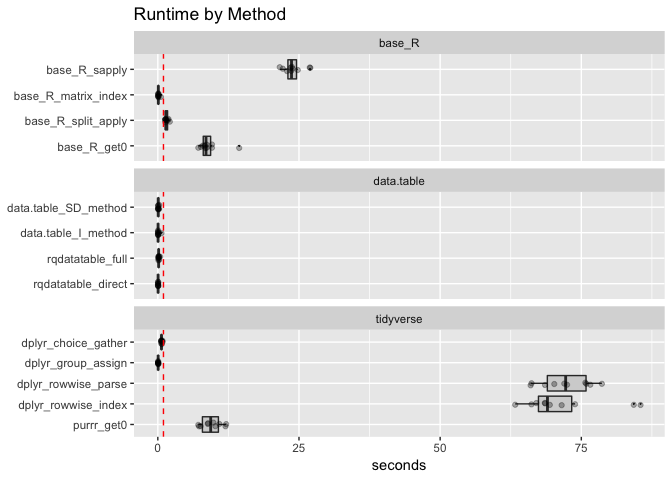
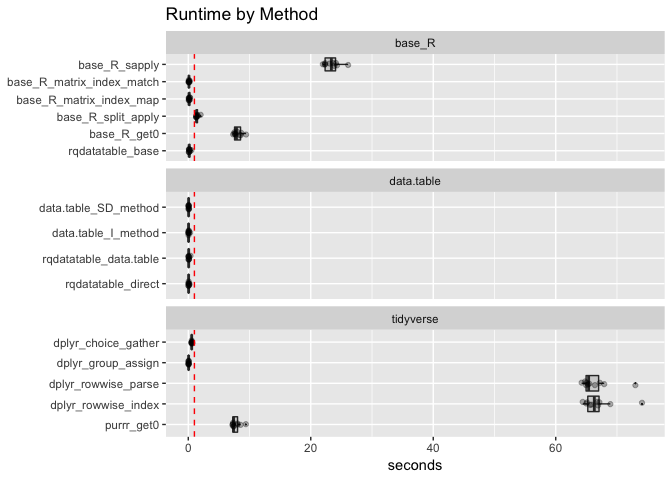
newer run with more variations

diff --git a/TimeColumnLookups/timings.md b/TimeColumnLookups/timings.md
@@ -84,7 +84,7 @@ base_R_sapply <- function(df) {
   df
 }
 
-base_R_matrix_index <- function(df) {
+base_R_matrix_index_match <- function(df) {
   # https://community.rstudio.com/t/extracting-value-from-a-data-frame-where-column-name-to-extract-from-is-dynamically-determined-by-values-in-another-column/14585
   dtmp <- df[, 
              intersect(df$choice, colnames(df)), 
@@ -92,6 +92,19 @@ base_R_matrix_index <- function(df) {
   df$derived <- dtmp[
     cbind(seq_len(nrow(df)),
           match(df$choice, colnames(dtmp)))]
+  df
+}
+
+base_R_matrix_index_map <- function(df) {
+  # https://community.rstudio.com/t/extracting-value-from-a-data-frame-where-column-name-to-extract-from-is-dynamically-determined-by-values-in-another-column/14585
+  dtmp <- df[, 
+             intersect(df$choice, colnames(df)), 
+             drop = FALSE]
+  cmap <- seq_len(length(colnames(df)))
+  names(cmap) <- colnames(df)
+  df$derived <- dtmp[
+    cbind(seq_len(nrow(df)),
+          cmap[df$choice])]
   df
 }
 
@@ -180,7 +193,8 @@ rqdatatable_direct <- make_dt_lookup_by_column("choice", "derived")
 ``` r
 timings <- microbenchmark(
   base_R_sapply = base_R_sapply(df),
-  base_R_matrix_index = base_R_matrix_index(df),
+  base_R_matrix_index_match = base_R_matrix_index_match(df),
+  base_R_matrix_index_map = base_R_matrix_index_map(df),
   base_R_split_apply = base_R_split_apply(df),
   base_R_get0 = base_R_get0(df),
   data.table_SD_method = data.table_SD_method(df),
@@ -190,7 +204,9 @@ timings <- microbenchmark(
   dplyr_rowwise_parse = dplyr_rowwise_parse(df),
   dplyr_rowwise_index = dplyr_rowwise_index(df),
   purrr_get0 = purrr_get0(df),
-  rqdatatable_full = lookup_by_column(df, "choice", "derived"),
+  rqdatatable_base = lookup_by_column(df, "choice", "derived"),
+  rqdatatable_data.table = lookup_by_column(df, "choice", "derived",
+                                            f_dt_factory = make_dt_lookup_by_column),
   rqdatatable_direct = rqdatatable_direct(df),
   unit = 's',
   times = 10L
@@ -208,7 +224,8 @@ tdf$method <- factor(as.character(tdf$expr),
 
 method_family <- qc(
   base_R_sapply = base_R,
-  base_R_matrix_index = base_R,
+  base_R_matrix_index_match = base_R,
+  base_R_matrix_index_map = base_R,
   base_R_split_apply = base_R,
   base_R_get0 = base_R,
   purrr_get0 = tidyverse,
@@ -218,7 +235,8 @@ method_family <- qc(
   dplyr_group_assign = tidyverse,
   dplyr_rowwise_parse = tidyverse,
   dplyr_rowwise_index = tidyverse,
-  rqdatatable_full = data.table,
+  rqdatatable_base = base_R,
+  rqdatatable_data.table = data.table,
   rqdatatable_direct = data.table
 )
 
@@ -231,20 +249,22 @@ tdf %.>%
   orderby(., "mean_seconds")
 ```
 
-    ##                   method mean_seconds
-    ##  1:   rqdatatable_direct   0.05405786
-    ##  2:   dplyr_group_assign   0.06315023
-    ##  3: data.table_SD_method   0.10567279
-    ##  4:  data.table_I_method   0.10979534
-    ##  5:  base_R_matrix_index   0.13583194
-    ##  6:     rqdatatable_full   0.17208519
-    ##  7:  dplyr_choice_gather   0.67627983
-    ##  8:   base_R_split_apply   1.54704491
-    ##  9:          base_R_get0   9.03824150
-    ## 10:           purrr_get0   9.48282369
-    ## 11:        base_R_sapply  24.00578467
-    ## 12:  dplyr_rowwise_index  71.82359545
-    ## 13:  dplyr_rowwise_parse  72.22674163
+    ##                        method mean_seconds
+    ##  1:        dplyr_group_assign   0.05572662
+    ##  2:      data.table_SD_method   0.06716999
+    ##  3:       data.table_I_method   0.07647618
+    ##  4:        rqdatatable_direct   0.08096200
+    ##  5:    rqdatatable_data.table   0.10015152
+    ##  6: base_R_matrix_index_match   0.12339813
+    ##  7:   base_R_matrix_index_map   0.15831438
+    ##  8:          rqdatatable_base   0.19300777
+    ##  9:       dplyr_choice_gather   0.57444927
+    ## 10:        base_R_split_apply   1.44026938
+    ## 11:                purrr_get0   7.79135940
+    ## 12:               base_R_get0   8.08021361
+    ## 13:             base_R_sapply  23.39829664
+    ## 14:       dplyr_rowwise_parse  66.42461707
+    ## 15:       dplyr_rowwise_index  66.97595121
 
 ``` r
 WVPlots::ScatterBoxPlotH(tdf, "seconds","method",  
